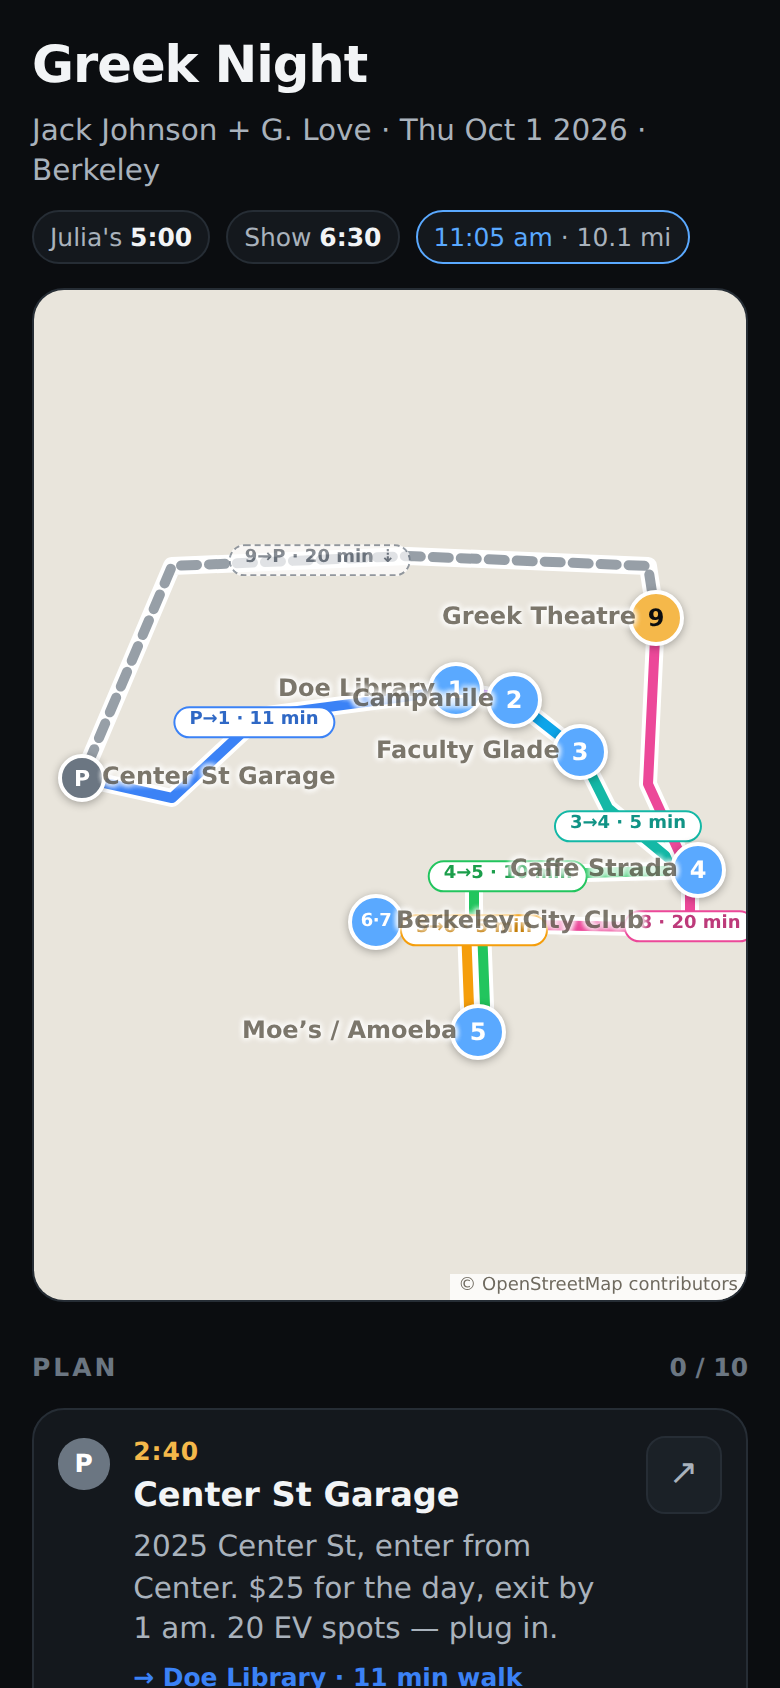
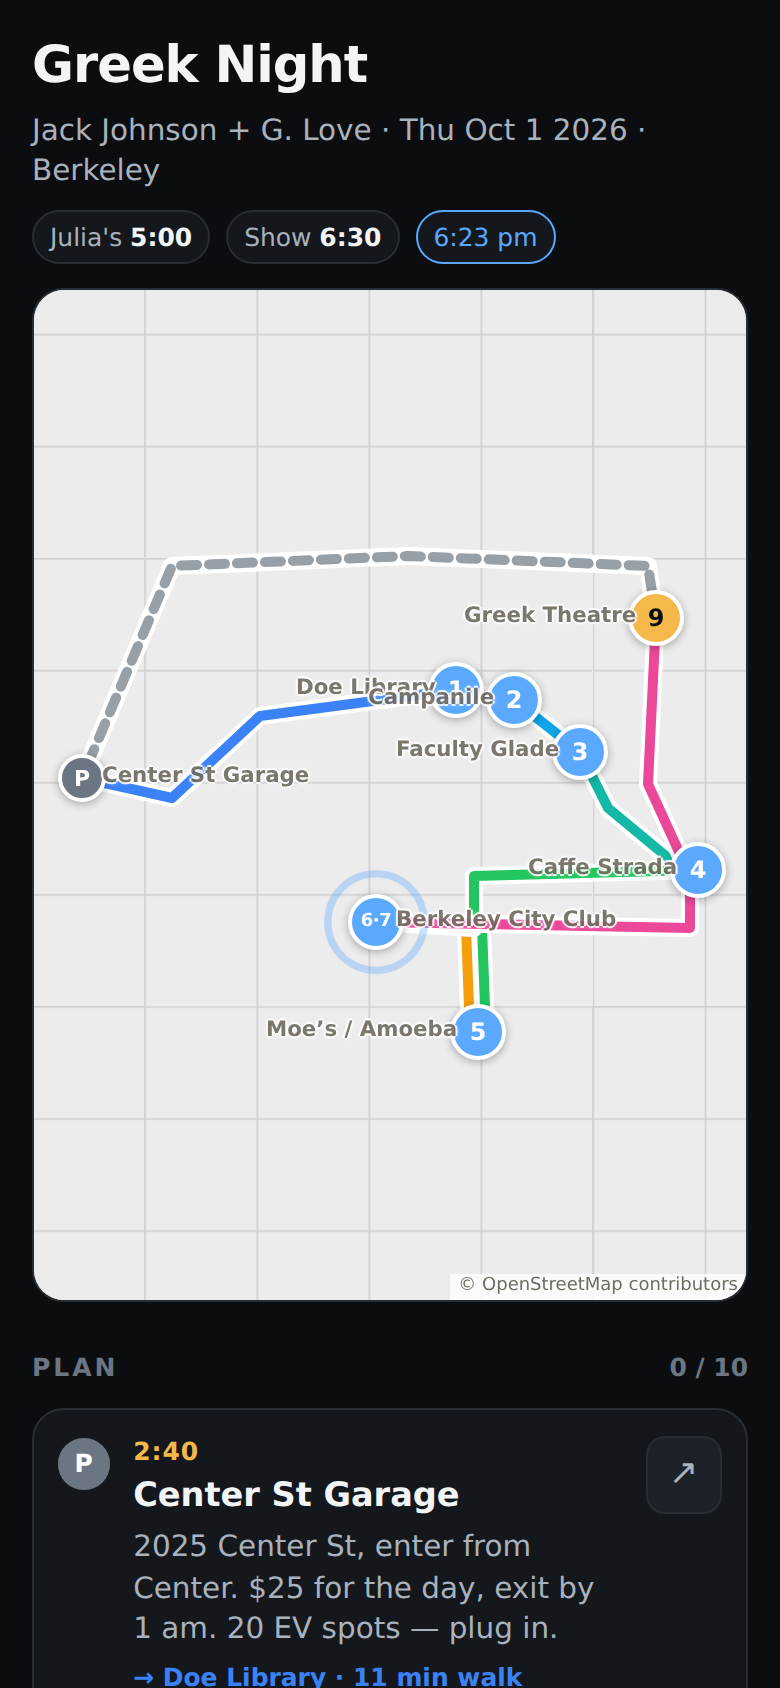
greek-night: grey basemap, no pills
The tile pane takes a grayscale / brightness / contrast filter, so the
basemap is light grey with white streets; the route, pins and location
dot sit in Leaflet's sibling panes and keep their colour. The walk-time
pills come off the map (the colours and pin numbers carry it; the rows
keep their walk lines), and with them the pill CSS and the pill-text
colour helper. Pin name tooltips drop to 8pt with a thin white halo.

Claude-Session: https://claude.ai/code/session_01SYEqCQ4izqiJdBAjLeUwFf

diff --git a/greek-night.html b/greek-night.html
@@ -68,6 +68,7 @@
   @media (max-width:767px){.mapcard{aspect-ratio:auto;max-height:none;height:60vh;height:60dvh}}
   #gnmap{position:absolute;inset:0;background:#e9e5dc;font:inherit}
   .leaflet-container{font-family:inherit}
+  .leaflet-tile-pane{filter:grayscale(1) brightness(1.12) contrast(.85)}   /* a light grey basemap; the route, pins and dot sit in sibling panes, unfiltered */
   .leaflet-control-attribution{font-size:9px;line-height:1.2;padding:1px 4px;background:rgba(255,255,255,.7);color:#6f6a5f}
   .leaflet-control-attribution a{color:#6f6a5f}
   /* pins: a numbered circle; a ring pulses on the current step; done steps fade */
@@ -80,12 +81,8 @@
   .pinm.now::after{content:"";position:absolute;inset:-2px;border-radius:50%;border:2px solid var(--now);animation:gnPulse 2s ease-out infinite}
   @keyframes gnPulse{from{transform:scale(1);opacity:.9}to{transform:scale(2.4);opacity:0}}
   @media (prefers-reduced-motion:reduce){.pinm.now::after{animation:none;transform:scale(1.5);opacity:.6}}
-  .pinlbl{background:none;border:0;box-shadow:none;padding:0 4px;font-size:9pt;font-weight:600;color:#6f6a5f;text-shadow:0 0 3px #fff,0 0 3px #fff,0 0 3px #fff,0 0 3px #fff;white-space:nowrap}
+  .pinlbl{background:none;border:0;box-shadow:none;padding:0 4px;font-size:8pt;font-weight:600;color:#6f6a5f;text-shadow:-1px 0 #fff,1px 0 #fff,0 -1px #fff,0 1px #fff,0 0 2px #fff;white-space:nowrap}
   .pinlbl::before{display:none}
-  /* walk-time pills, centred on the leg; the icon itself is a point and the pill hangs off it */
-  .walk{width:0;height:0;overflow:visible}
-  .walk span{position:absolute;transform:translate(-50%,-50%);white-space:nowrap;background:#fff;border:1.5px solid;border-radius:999px;padding:1px 7px;font-size:9px;font-weight:700;line-height:1.3}
-  .walk.ret span{opacity:.7}
   .pp-dot{display:inline-block;width:.5rem;height:.5rem;border-radius:50%;margin-right:.35rem;vertical-align:.05em}
   /* the pin popup: the page's dark pill; the whole card is the Apple Maps link */
   .pinpop .leaflet-popup-content-wrapper{background:var(--card2);border:1px solid var(--line);border-radius:var(--r);box-shadow:0 8px 26px rgba(0,0,0,.45);color:var(--ink);padding:0}
@@ -356,10 +353,6 @@
     for (var k in LEG_COLOURS) if (k.split('-')[0] === fromKey) return LEG_COLOURS[k];
     return LEG_COLOURS.ret;
   }
-  function darker(hex){   /* 20% darker, for pill text */
-    var n = parseInt(hex.slice(1), 16), c = [n >> 16 & 255, n >> 8 & 255, n & 255].map(function(v){ return Math.round(v * 0.8); });
-    return '#' + c.map(function(v){ return ('0' + v.toString(16)).slice(-2); }).join('');
-  }
   /* a pin stays while any of its steps is live: skip 6 and City Club remains for dinner, reading 7. The start pin always stays. */
   function liveSteps(s){ return s.steps.filter(function(k){ return !isSkipped(k); }); }
   function livePlaces(){ return PLACES.filter(function(s){ return s.start || liveSteps(s).length > 0; }); }
@@ -500,8 +493,8 @@
     });
   }
 
-  /* a pill at the leg's midpoint by path length; none for a walk under 3 min */
-  function pillAt(l){
+  /* the leg's midpoint by path length (kept for use by the rows' walk lines) */
+  function midpoint(l){
     var cum = [0];
     for (var j = 1; j < l.pts.length; j++) cum.push(cum[j - 1] + metres(l.pts[j - 1], l.pts[j]));
     var d = cum[cum.length - 1] / 2, j = 1;
@@ -515,12 +508,6 @@
     routeLayer.clearLayers(); markers = [];
     legParts(LEGS);
     LEGS.filter(function(l){ return l.ret; }).concat(LEGS.filter(function(l){ return !l.ret; })).forEach(legDraw);
-    LEGS.forEach(function(l){
-      if (l.min < 3) return;
-      var txt = l.name + ' · ' + l.min + ' min' + (l.ret ? ' ⇣' : '');
-      var html = '<span style="border-color:' + l.col + ';color:' + darker(l.col) + (l.ret ? ';border-style:dashed' : '') + '">' + esc(txt) + '</span>';
-      L.marker(pillAt(l), {icon:L.divIcon({className:'walk' + (l.ret ? ' ret' : ''), html:html, iconSize:[0, 0]}), interactive:false, keyboard:false}).addTo(routeLayer);
-    });
     PLACES.forEach(function(s, i){
       var steps = liveSteps(s), plain = s.start;
       if (!steps.length && !plain) return;
